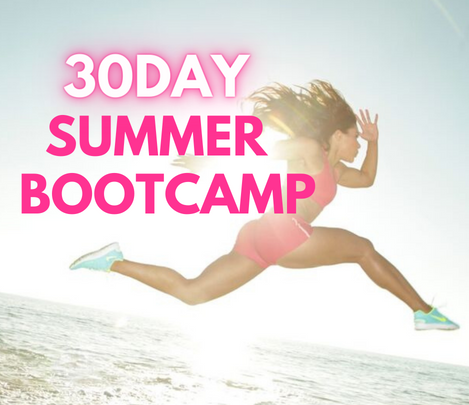
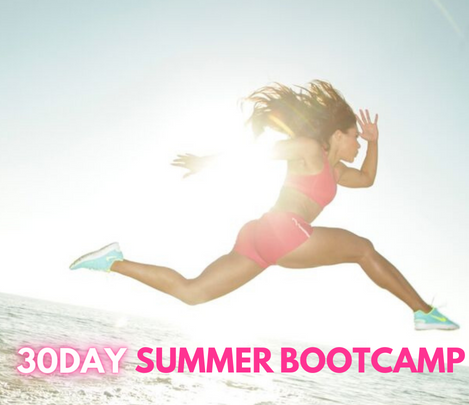
responsive

Changed region(s): [[0.0896, 0.0889, 0.5672, 0.3852], [0.0299, 0.8296, 1.0, 0.9481], [0.0299, 0.4148, 0.6866, 0.5333]]

diff --git a/css/style.css b/css/style.css
@@ -796,20 +796,22 @@ ul {
   }
   .video-area iframe {
     width: 100%;
-    height: 225px;
+    height: 220px;
     border-radius: 10px;
   }
   .sortable-wrap .bootcamp-start h3 {
-    font-size: 34px;
+    font-size: 30px;
   }
   #countdown {
     gap: 0px;
+    margin-top: 30px;
+    margin-bottom: 40px;
   }
   #countdown .vertical-text {
     font-size: 28px;
     line-height: 30px;
     width: 50%;
-    margin-bottom: 20px;
+    margin-bottom: 30px;
   }
   #countdown .vertical-mobile {
     margin-bottom: 0px !important;
